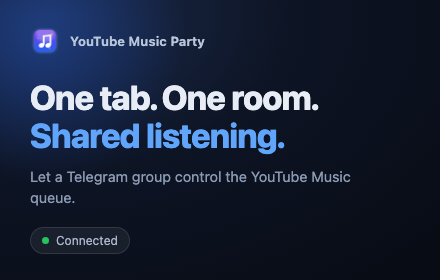
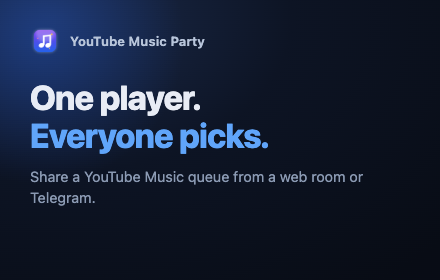
chore(release): refresh Chrome Web Store listing for 1.16.2

diff --git a/apps/extension/src/App.tsx b/apps/extension/src/App.tsx
@@ -533,7 +533,7 @@ function App() {
                                             <span>Room ID</span>
                                         <input
                                             aria-label="Room ID"
-                                            placeholder="From Telegram /register"
+                                            placeholder="From the web room or Telegram"
                                             required
                                             value={roomIdInput}
                                             disabled={busy || connecting}

diff --git a/apps/extension/src/constants/config.ts b/apps/extension/src/constants/config.ts
@@ -4,7 +4,7 @@ export const DEFAULT_PARTY_URL = "https://music.ytparty.my.id";
 
 export function validateRoomConfig(roomId: string, partyUrl: string) {
     if (typeof roomId !== "string" || !roomId.trim()) {
-        throw new Error("Enter a room ID from Telegram /register.");
+        throw new Error("Enter a room ID from the web room settings or Telegram /register.");
     }
     if (typeof partyUrl !== "string") {
         throw new Error("Enter a valid HTTP(S) party server URL.");

diff --git a/apps/extension/src/lib/browser.ts b/apps/extension/src/lib/browser.ts
@@ -401,7 +401,7 @@ export function openJoinDialog() {
 
     const hint = document.createElement("p");
     hint.className = "ytmp-join-hint";
-    hint.textContent = "Paste the room ID from Telegram /register.";
+    hint.textContent = "Paste the room ID from the web room settings or Telegram /register.";
 
     const room = createJoinField({
         id: JOIN_ROOM_INPUT_ID,

diff --git a/docs/chrome-web-store.md b/docs/chrome-web-store.md
@@ -29,26 +29,11 @@ The Web Store build should not include a manual ZIP downloader or release checke
 ### Description
 
 ```text
-YouTube Music Party connects one browser tab to a room controlled from a Telegram group, so participants can manage a shared listening session.
+YouTube Music Party connects one host’s YouTube Music tab to a shared queue. Create a web room and share an invite so friends can search for songs, add requests, see what’s playing, and vote to skip from their browsers. Guests don’t need the extension or a Telegram account to join a web room.
 
-Open music.youtube.com and join a room from the extension popup or the music page sidebar. Connect to your backend and let group members add tracks, use playback controls, vote, and manage the queue.
+To connect the player, copy the Room ID from Room info & settings in the web room. Open music.youtube.com, paste the ID into the extension popup, and select Join Room. Wait for Connected, then share the guest invite from the web room. If your group already uses Telegram, you can also use the companion bot and get a Room ID with /register.
 
-Features:
-- Join or leave a room from the popup or the music page sidebar
-- Connect to a configurable party backend
-- Control play, pause, next, previous, mute, and volume
-- View current room, connection status, now playing, and queue from the popup
-- Keep YouTube Music active during long shared sessions
-- Works with the companion bot/backend in this project
-
-How it works:
-1. Add the companion bot to your Telegram group and run /register to get a room ID
-2. Open music.youtube.com, then open the extension popup
-3. Enter your room ID; expand Advanced / custom server to change the default https://music.ytparty.my.id server if needed
-4. Click Join Room; the music tab refreshes and may briefly interrupt playback
-5. Wait for Connected, then use the Telegram bot in your group to control playback
-
-Joining continues if you close the popup. Only one device can own a room; if the room is busy, leave on the current device before retrying. The music page sidebar remains an alternative way to join.
+The host can use the popup to see the current song and upcoming requests, control playback, or leave the room. Only one player can connect at a time. Music plays only in the host’s YouTube Music tab; the extension does not stream audio to guests.
 
 This extension only runs on music.youtube.com. It does not collect account credentials, passwords, or personal browsing history.
 
@@ -57,14 +42,10 @@ Not affiliated with YouTube, Google, Chrome, or Telegram.
 
 ### Summary
 
-```text
-Connect a music tab to a group-controlled listening room.
-```
-
-Alternative if a longer summary is preferred:
+The short description is read from `apps/extension/public/manifest.json`. To change it for an existing listing, upload a package with a higher version number.
 
 ```text
-Join a room, view status, and control a shared listening queue from the extension popup.
+Host a shared YouTube Music queue. Friends request songs from a web room or Telegram while music plays in your tab.
 ```
 
 ### Category
@@ -124,11 +105,13 @@ Ready-to-upload assets live in `docs/images/store/`:
 | File | Size | Upload field |
 |------|------|--------------|
 | `icon-128x128.png` | 128x128 | Store icon |
-| `screenshot-01-queue.png` | 1280x800 | Screenshot (popup + queue) |
-| `screenshot-02-playing.png` | 1280x800 | Screenshot (popup, now playing) |
+| `v1.16.1-01-connected-player.png` | 1280x800 | Screenshot 1: connected extension |
+| `v1.16.1-02-web-room.png` | 1280x800 | Screenshot 2: browser room |
+| `v1.16.1-03-connect-player.png` | 1280x800 | Screenshot 3: extension setup |
 | `small-promo-440x280.png` | 440x280 | Small promo tile |
+| `marquee-promo-1400x560.png` | 1400x560 | Optional marquee promo tile |
 
-Regenerate them with the render script described in `docs/images/store/README.md`.
+The v1.16.1 screenshots are captures of the running UI. The render script described in `docs/images/store/README.md` produces the older templates and promo tile.
 
 ### Store Icon
 
@@ -146,24 +129,18 @@ Accepted sizes:
 - `1280x800`
 - `640x400`
 
-Recommended screenshots:
-
-- Popup connected state.
-- YouTube Music page with the Join/Leave entry point.
-- Telegram bot commands controlling playback or queue.
-- Popup showing now playing and queue.
-- Room configuration/settings if visually useful.
+Start with the connected popup, then show the web room and the Join Room form. Keep room IDs, invite codes, and account details out of listing screenshots.
 
 ### Small Promo Tile
 
 Optional but recommended.
 
 - Size: `440x280`.
-- Text idea: `YouTube Music Party` and `Control shared music from Telegram`.
+- Text idea: `YouTube Music Party` and `One player. Everyone picks the music.`
 
 ### Marquee Promo Tile
 
-Optional. Skip unless polished artwork is available.
+Optional. Upload `marquee-promo-1400x560.png` to match the small promo tile and show the web room.
 
 ## Privacy Page Fields
 
@@ -180,7 +157,7 @@ If the Privacy page asks for any permission justification other than the host pe
 ### Single Purpose Description
 
 ```text
-YouTube Music Party lets a user connect a YouTube Music tab to a Telegram-controlled party room so group members can manage shared playback and queue actions.
+YouTube Music Party connects the host’s YouTube Music tab to a party room so participants can manage a shared queue and playback from a web browser or Telegram.
 ```
 
 ### Host Permission Justification
@@ -188,7 +165,7 @@ YouTube Music Party lets a user connect a YouTube Music tab to a Telegram-contro
 Use this for the current manifest:
 
 ```text
-The extension needs access to music.youtube.com to add the party room controls, read the current playback state, update the queue, and execute playback commands requested by the user or their connected Telegram party room.
+The extension needs access to music.youtube.com to add the room controls, read playback state, update the queue, and apply commands from the connected party room, whether participants use the web room or Telegram.
 ```
 
 ### Remote Code
@@ -400,5 +377,5 @@ If the draft is rejected with `Spam and Placement in the Store`, review these it
 Suggested reviewer note:
 
 ```text
-This extension has one purpose: connecting a user's YouTube Music tab to a Telegram-controlled party room for shared playback and queue control. The listing has been updated to avoid promotional repetition, clarify that the project is not affiliated with YouTube, Google, Chrome, or Telegram, and accurately describe the extension's functionality and data usage.
+This extension has one purpose: connecting the host's YouTube Music tab to a party room for shared playback and queue control from the browser or Telegram. The listing describes that workflow and clarifies that the project is not affiliated with YouTube, Google, Chrome, or Telegram.
 ```
